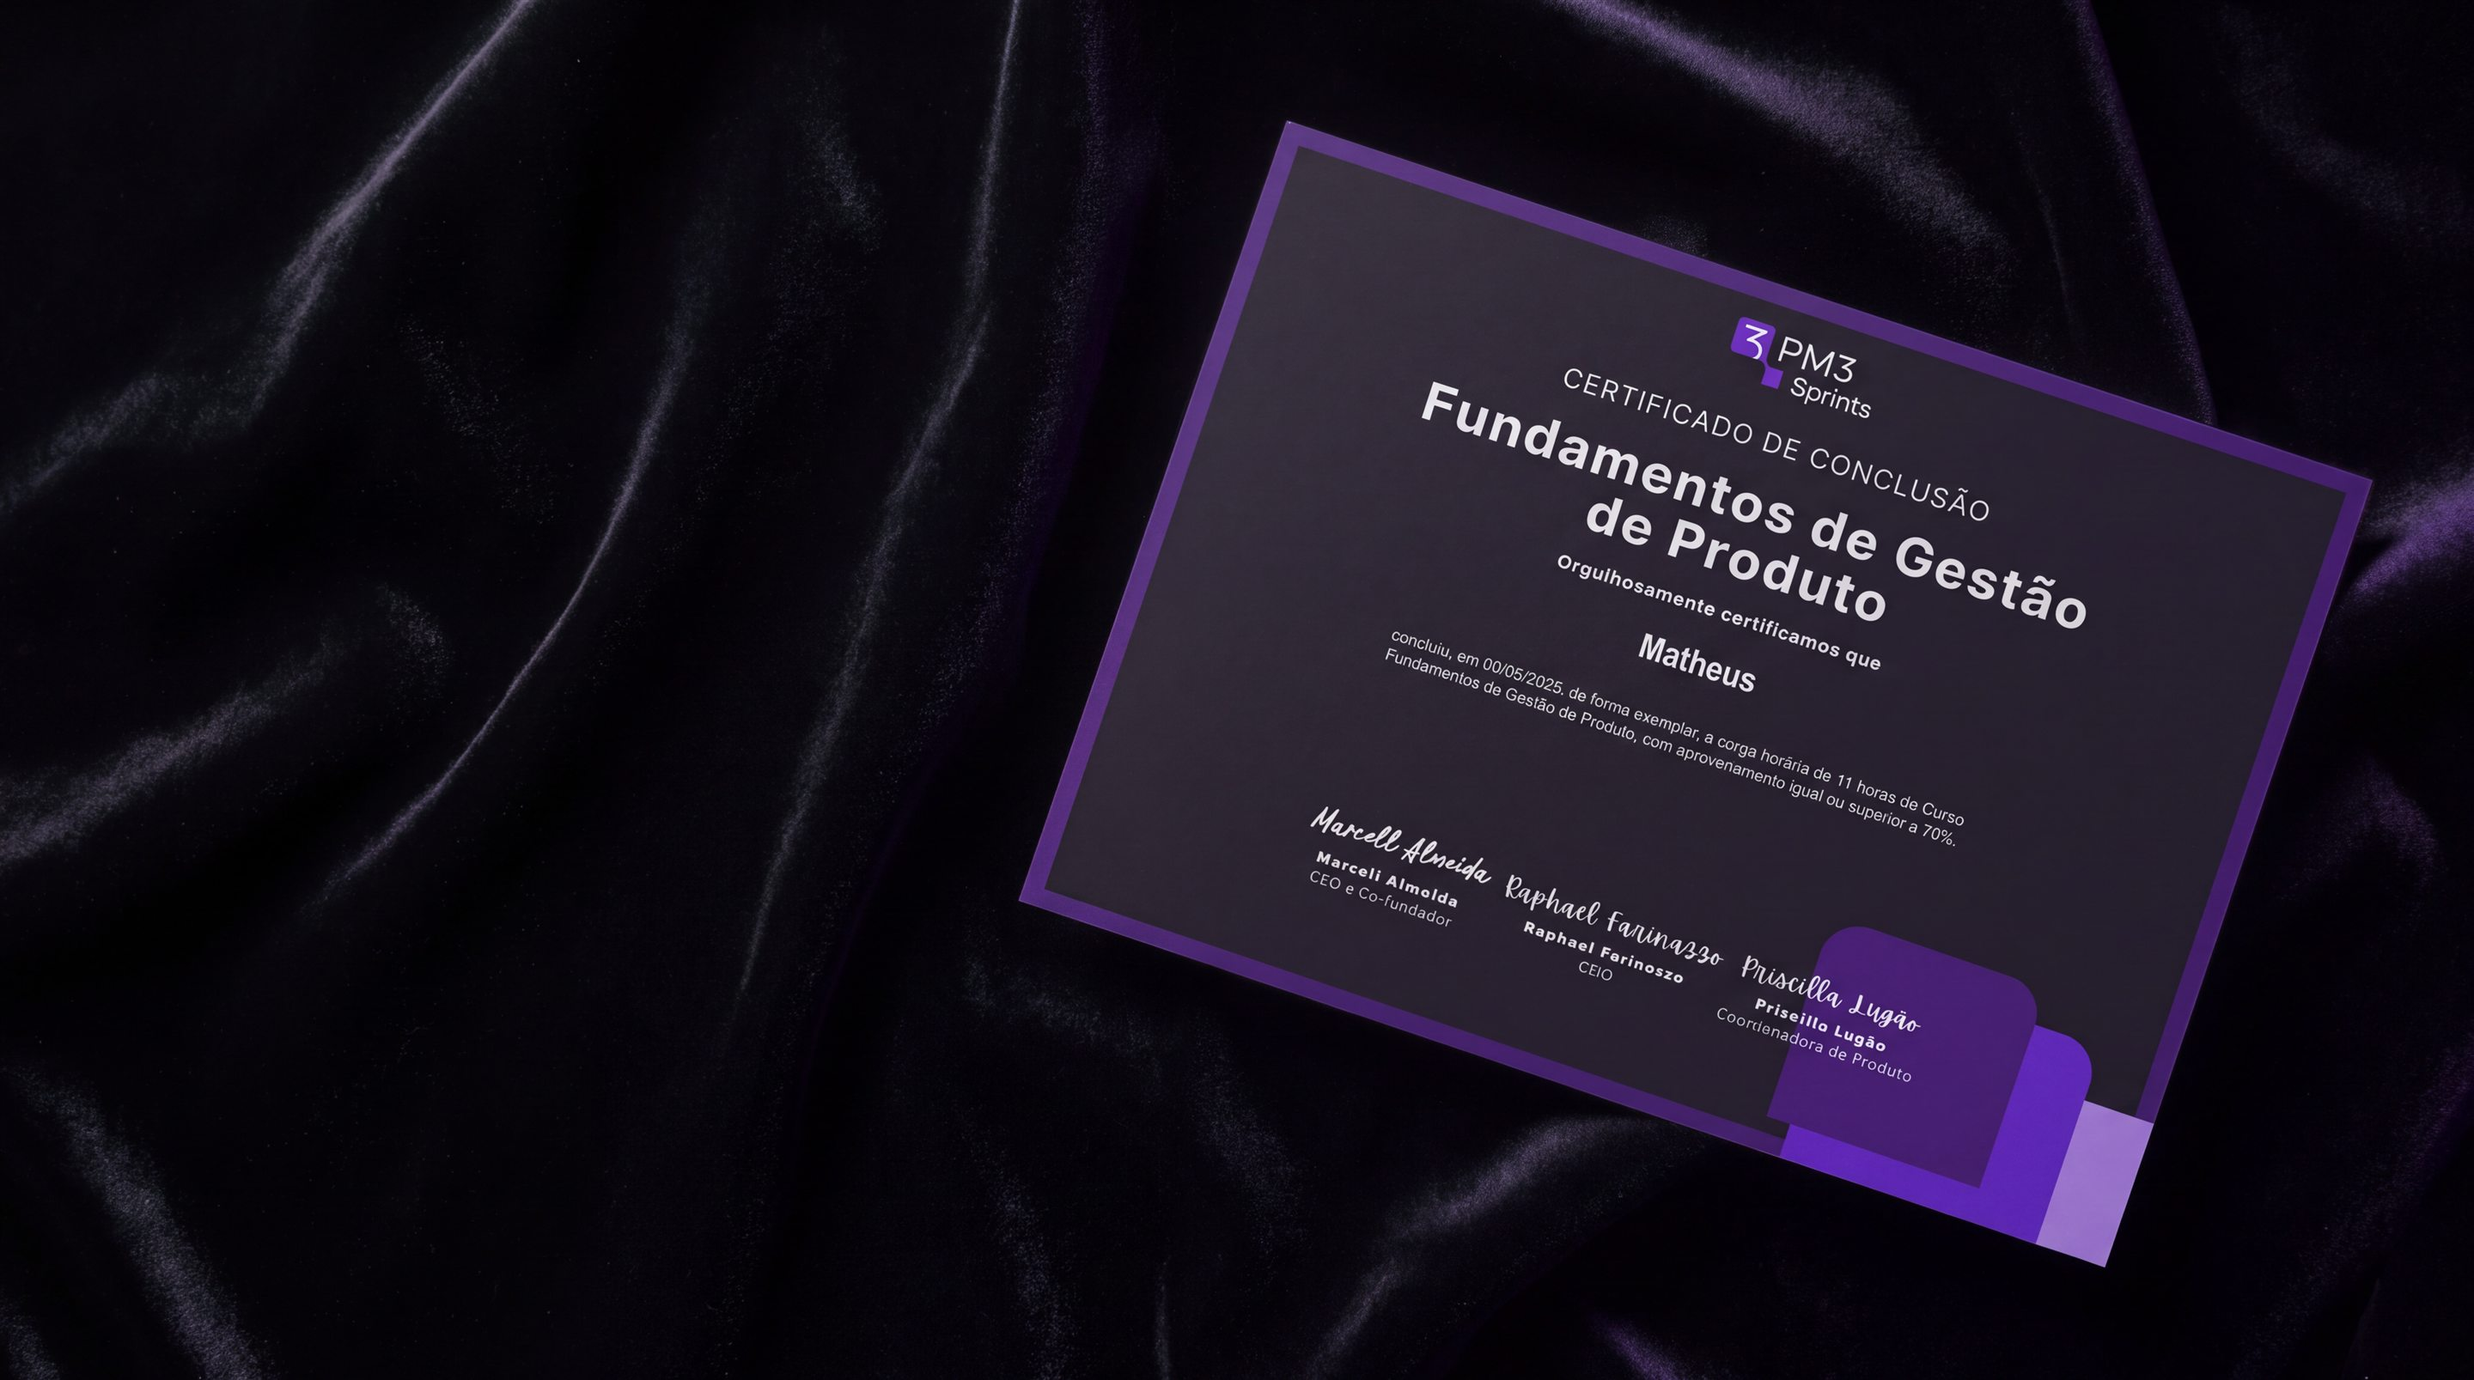
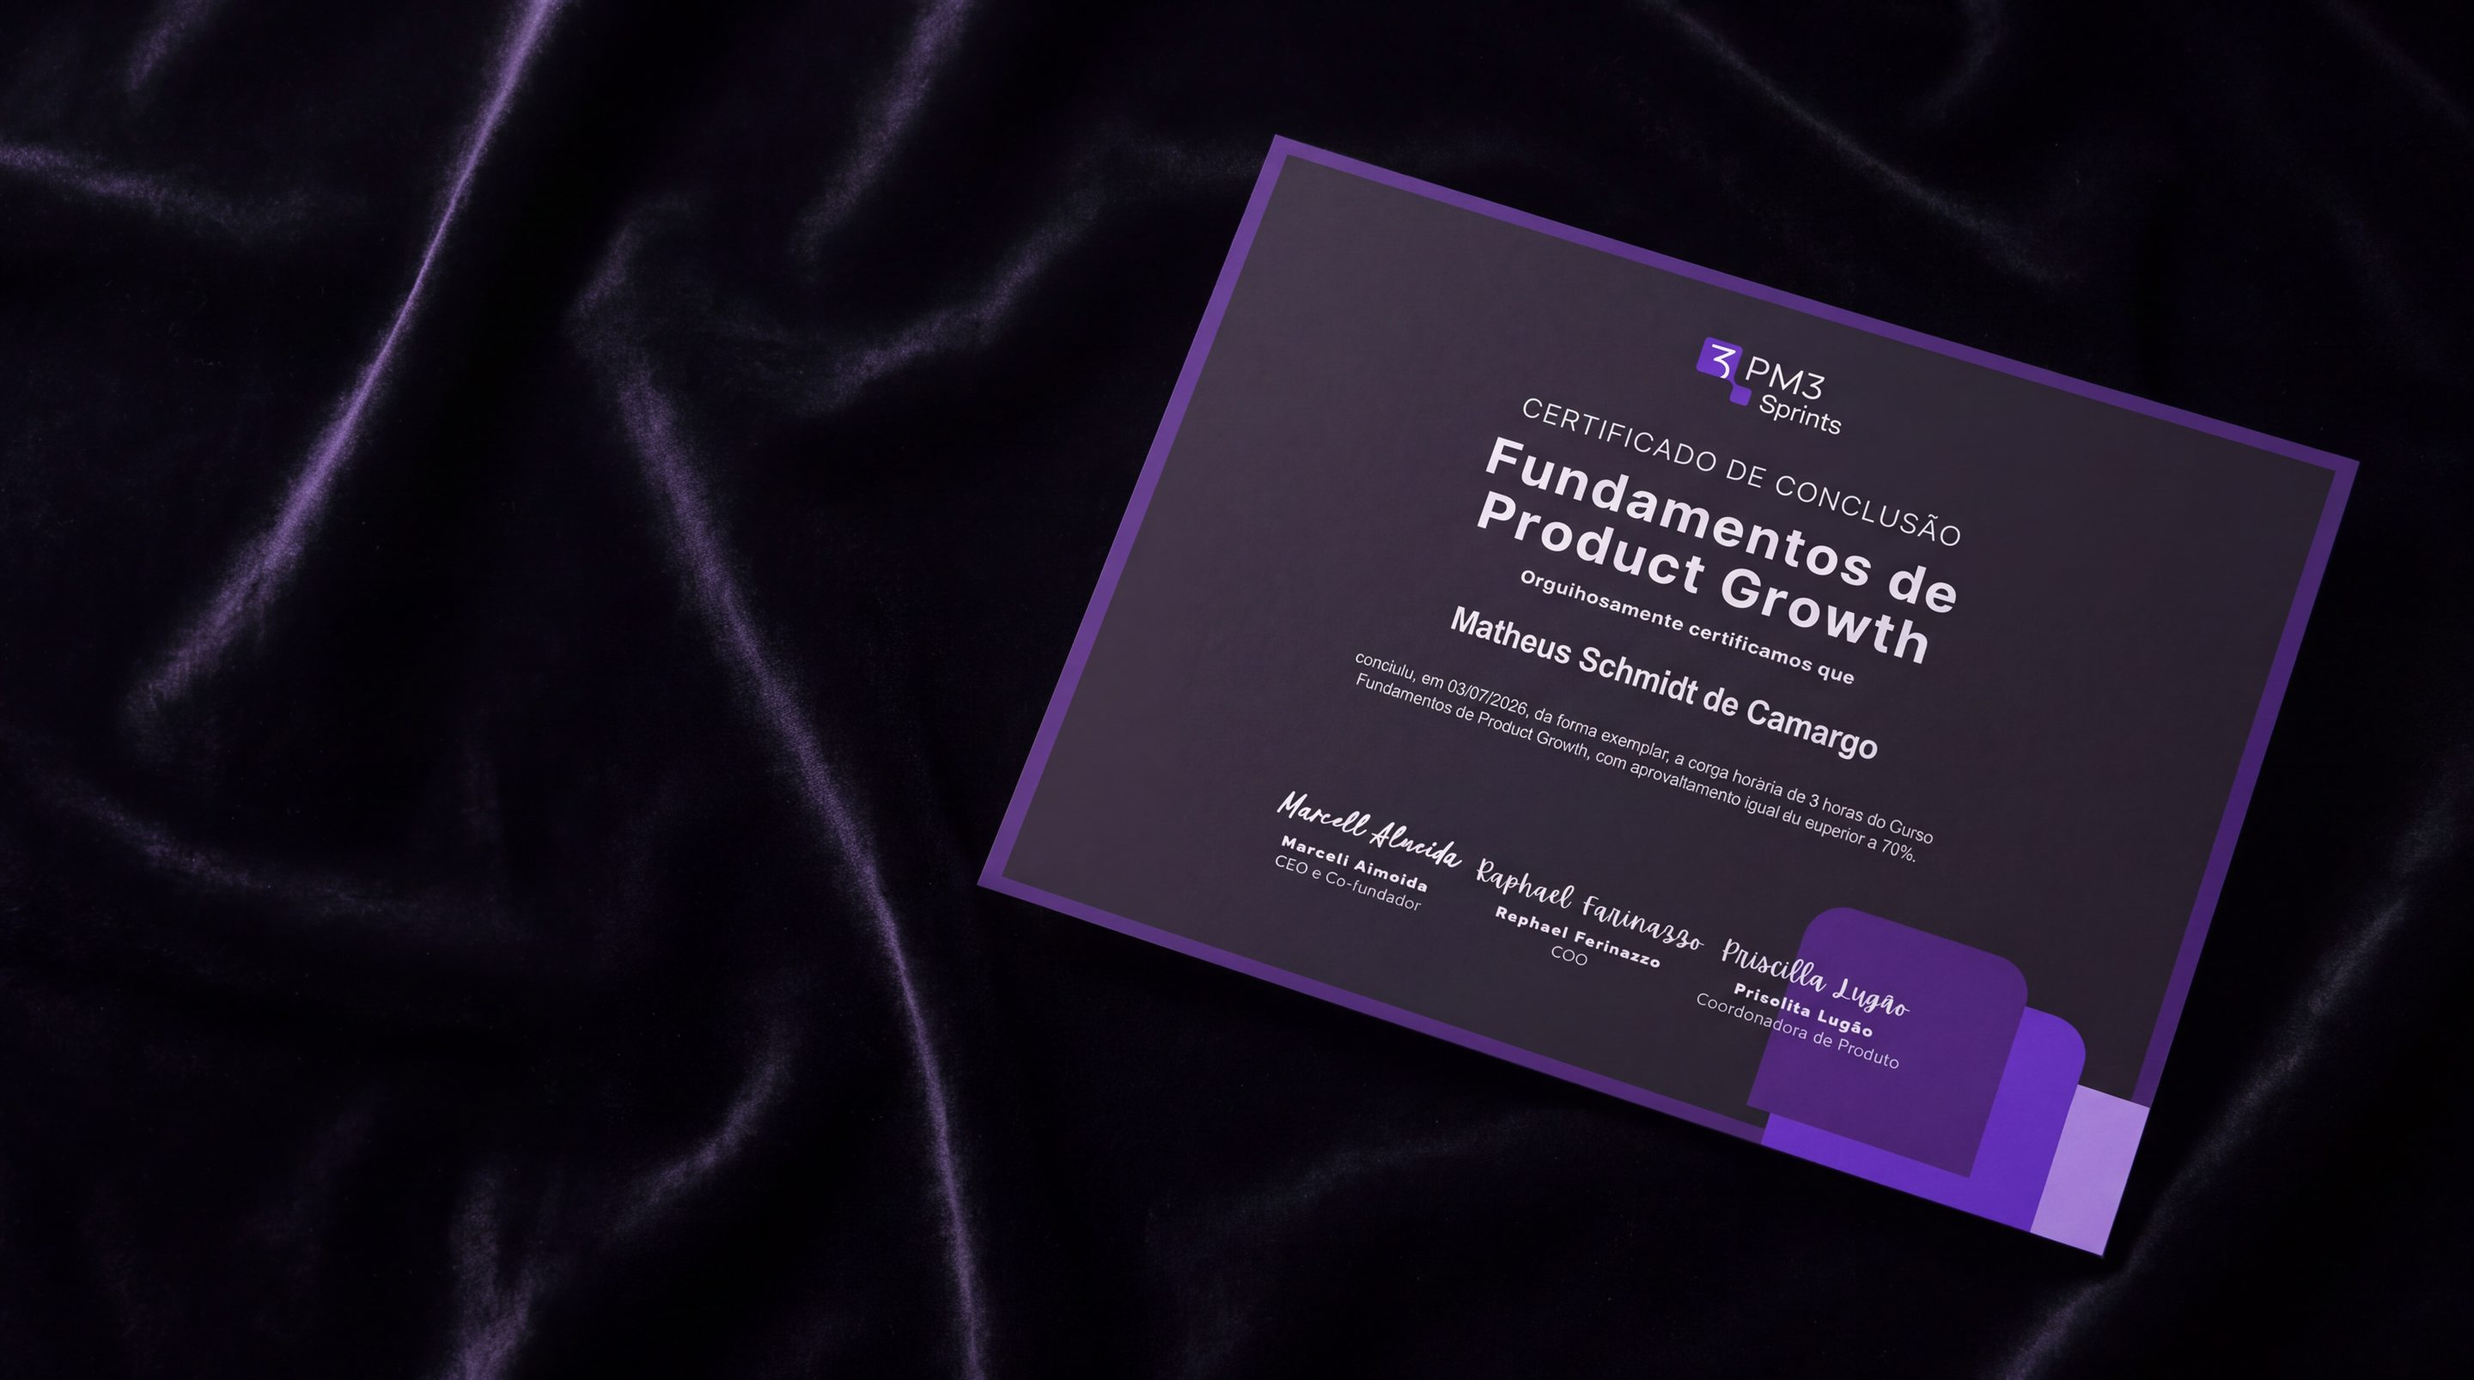
Sprints: catalogo em cards com 44 capas (Magnific), certificado de Growth; mockups nunca invadem o texto

diff --git a/assets/js/vitrines.js b/assets/js/vitrines.js
@@ -43,25 +43,33 @@
 
   /* ---------- /sprints/ ---------- */
   if (PAGE === 'sprints'){
+    /* catálogo: um card por sprint (mesmo card de Formações), filtrável por vertical */
     const ordem = ['gestao','dados','design','marketing','negocios','lideranca'];
-    const intro = {
-      gestao: 'Roadmap, PRD, pesquisa e operações de produto.', dados: 'SQL, Python, BI, métricas e experimentos.',
-      design: 'Design thinking, serviço e interface.', marketing: 'Growth, go-to-market e aquisição.',
-      negocios: 'OKRs, ágil e processos.', lideranca: 'Comunicação, feedback, negociação e gestão de pessoas.'
+    const nomeA = a => a === 'lideranca' ? 'Liderança' : AREAS[a].curto;
+    const CAPAS = ['fundamentos-gestao-produtos','roadmap-priorizacao','tecnicas-pesquisa','tecnologia-pms','prd','product-ops-fundamentos','product-ops-avancado','metodos-analise-dados','power-bi','excel','metricas-negocios','python','visualizacao-dashboards','teste-ab','sql','lgpd','problem-solving','vieses-analises','design-thinking','design-servico','ui-design','go-to-market','product-growth','product-marketing','aquisicao','sales-enablement','okrs','metodologias-ageis','gestao-processos','educacao-corporativa','negociacao-lideres','comunicacao-assertiva','apresentacao-slides','diversidade-inclusao','trabalho-remoto','gestao-tempo','lideranca-equipe','saude-mental','delegacao','feedback','ie-lideres','ie-trabalho','oratoria','tecnicas-negociacao'];
+    SPRINTS.forEach((s, i) => { s.capa = CAPAS[i]; });
+    const ic = {
+      h: '<svg viewBox="0 0 16 16" fill="none" stroke="currentColor" stroke-width="1.6" aria-hidden="true"><circle cx="8" cy="8" r="6.2"/><path d="M8 4.6V8l2.4 1.6"/></svg>',
+      cert: '<svg viewBox="0 0 16 16" fill="none" stroke="currentColor" stroke-width="1.6" aria-hidden="true"><circle cx="8" cy="6.2" r="4.2"/><path d="m5.6 9.6-1.1 4.8L8 12.8l3.5 1.6-1.1-4.8"/></svg>',
+      go: '<svg viewBox="0 0 16 16" fill="none" stroke="currentColor" stroke-width="2"><path d="M2 8h11M9 4l4 4-4 4"/></svg>'
     };
-    const grupos = ordem.map(a => ({ a, ss: SPRINTS.filter(s => s.area === a) }));
-    $('#vnav').innerHTML = grupos.map(g => `<a href="#${g.a}">${AREAS[g.a].nome}<small>${g.ss.length}</small></a>`).join('');
-    $('#verts').innerHTML = grupos.map(g => {
-      const tot = g.ss.reduce((t, s) => t + s.h, 0);
-      return `<section class="vert" id="${g.a}" aria-labelledby="t-${g.a}">
-        <div class="vert-head"><span class="n">${String(g.ss.length).padStart(2,'0')}</span><div><h2 id="t-${g.a}">${AREAS[g.a].nome}</h2><p>${intro[g.a]}</p></div><div class="tot"><b>${tot}h</b>de conteúdo na vertical</div></div>
-        <div class="slist">${g.ss.map(s => `<a class="srow${s.url !== '#' ? ' hot' : ''}" href="${s.url}"><b>${s.nome}</b><span>${s.obj}</span><em class="hh" style="font-style:normal">${s.h}h</em></a>`).join('')}</div>
-      </section>`;
-    }).join('');
-    const links = [...document.querySelectorAll('#vnav a')], secs = links.map(l => $(l.getAttribute('href')));
-    const marca = () => { let cur = null; secs.forEach(s => { if (s.getBoundingClientRect().top < 200) cur = s.id; });
-      links.forEach(l => l.classList.toggle('on', l.getAttribute('href') === '#' + cur)); };
-    addEventListener('scroll', marca, { passive: true }); marca();
+    const lista = ordem.flatMap(a => SPRINTS.filter(s => s.area === a));
+    $('#fx-chips').innerHTML = `<button type="button" class="on" data-f="">Todas <small>${lista.length}</small></button>` +
+      ordem.map(a => `<button type="button" data-f="${a}">${nomeA(a)} <small>${SPRINTS.filter(s => s.area === a).length}</small></button>`).join('');
+    $('#fx-grid').innerHTML = lista.map((s, i) => `<a class="f-card reveal${s.url !== '#' ? ' feature' : ''}" data-a="${s.area}" data-d="${i % 4}" href="${s.url}">
+      <div class="f-vis" style="background-image:url('assets/capas/sprints/${s.capa}.jpg')" aria-hidden="true"></div>
+      <div class="f-body"><div class="top"><span class="tag tag-area">${nomeA(s.area)}</span>${s.url !== '#' ? '<span class="tag tag-yellow">Comece aqui</span>' : ''}</div>
+        <h3>${s.nome}</h3><p>${s.obj}</p>
+        <ul class="f-facts"><li>${ic.h}${s.h}h</li><li>${ic.cert}Certificado</li></ul>
+        <div class="meta"><span>Ver sprint</span><span class="go">${ic.go}</span></div></div></a>`).join('') +
+      `<a class="f-more f-more-full reveal" href="membership.html"><div><small>Membership PM3</small><h3>Todas as sprints<span class="em">e as 10 formações.</span></h3>
+        <p>12 meses de acesso às +40 sprints, às 10 formações, mentorias, workshops ao vivo e comunidade.</p></div>
+        <div class="row"><div class="pr"><b>12x R$ 299,91</b><span>ou R$ 3.599 à vista</span></div><span class="btn btn-light">Conhecer a Membership ${ic.go}</span></div></a>`;
+    const filtra = a => {
+      document.querySelectorAll('#fx-chips button').forEach(b => b.classList.toggle('on', b.dataset.f === a));
+      document.querySelectorAll('#fx-grid .f-card').forEach(c => c.hidden = !!a && c.dataset.a !== a);
+    };
+    $('#fx-chips').addEventListener('click', e => { const b = e.target.closest('button'); if (b) filtra(b.dataset.f); });
   }
 
   /* ---------- /cursos/ ---------- */

diff --git a/sprints.html b/sprints.html
@@ -17,8 +17,9 @@
 <link rel="stylesheet" href="assets/css/tokens.css?v=2">
 <link rel="stylesheet" href="assets/css/base.css?v=20">
 <link rel="stylesheet" href="assets/css/components.css?v=5">
-<link rel="stylesheet" href="assets/css/showcase.css?v=27">
+<link rel="stylesheet" href="assets/css/showcase.css?v=30">
 <link rel="stylesheet" href="assets/css/hero-card.css?v=1">
+<link rel="stylesheet" href="assets/css/cards-formacao.css?v=6">
 <script type="application/ld+json">
 {"@context":"https://schema.org","@graph":[
  {"@type":"BreadcrumbList","itemListElement":[
@@ -45,7 +46,7 @@
       <div>
         <div class="m-buy">
           <div class="btns">
-            <a class="btn btn-light" href="#vnav">Ver as sprints <svg viewBox="0 0 16 16" fill="none" stroke="currentColor" stroke-width="1.8"><path d="M2 8h11M9 4l4 4-4 4"/></svg></a>
+            <a class="btn btn-light" href="#catalogo">Ver as sprints <svg viewBox="0 0 16 16" fill="none" stroke="currentColor" stroke-width="1.8"><path d="M2 8h11M9 4l4 4-4 4"/></svg></a>
             <a class="btn btn-line" href="membership.html">Conhecer a Membership</a>
           </div>
         </div>
@@ -65,23 +66,19 @@
   </div>
 </section>
 
-<!-- 2 · NAVEGAÇÃO POR VERTICAL -->
-<nav class="vnav" aria-label="Verticais de sprints" data-nota="As 6 verticais viram âncoras desta página. Hoje cada vertical é uma URL própria (/sprints/dados/ etc.): manter essas URLs como seções ou páginas filhas, com 301 se mudarem."><div class="wrap" id="vnav"></div></nav>
-
-<!-- 3 · VERTICAIS -->
-<div class="wrap" id="verts" data-nota="44 sprints do catálogo consolidado (jul/2026). O marketing diz '+40' e o sitemap tem 48 páginas: alinhar a lista oficial antes da migração."></div>
-
-<!-- 4 · ACESSO -->
-<section class="section" aria-label="Como acessar as sprints">
+<!-- 2 · CATÁLOGO -->
+<section class="section" id="catalogo" aria-labelledby="ar-t">
   <div class="wrap">
-    <div class="mband grain on-dark reveal" data-nota="Mesma decisão da página da sprint: a assinatura só de sprints continua? Sem preço público hoje.">
-      <div><p class="kicker">Todas as sprints inclusas</p><h2>Sprints e formações.<span class="em">No mesmo acesso.</span></h2><p>A Membership é uma assinatura de 12 meses com as +40 sprints, as 10 formações, mentorias, workshops ao vivo e comunidade.</p></div>
-      <div class="pr"><small>Membership PM3</small><b>12x R$ 299,91</b><span>ou R$ 3.599 à vista</span><a class="btn btn-light" href="membership.html">Conhecer a Membership</a></div>
+    <div class="sec-head">
+      <div><p class="kicker"><span class="n">01</span> Catálogo</p><h2 class="h2" id="ar-t">Escolha a<br><span class="c2">sua sprint</span></h2></div>
+      <p class="lead">44 cursos curtos, de 2 a 12 horas, cada um focado em um desafio do dia a dia. Faça uma ou tenha todas na Membership.</p>
     </div>
+    <div class="fx-chips" id="fx-chips" role="group" aria-label="Filtrar por vertical"></div>
+    <div class="f-grid" id="fx-grid" data-nota="44 sprints do catálogo consolidado (jul/2026), com capas geradas no Magnific (pessoas fictícias). O marketing diz '+40' e o sitemap tem 48 páginas: alinhar a lista oficial antes da migração."></div>
   </div>
 </section>
 
-<!-- 5 · CERTIFICADO -->
+<!-- 3 · CERTIFICADO -->
 <section class="cx-sec on-dark" aria-labelledby="ce-t">
   <div class="cx-hero cx-sprint" data-nota="Mockup gerado no Magnific a partir do certificado real das Sprints (QR code e código de validação removidos).">
     <div class="wrap">
@@ -109,21 +106,11 @@
     </div>
   </div>
 </section>
-<!-- 6 · CTA FINAL -->
-<section class="final grain on-dark" aria-labelledby="fn-t">
-  <div class="aurora" aria-hidden="true"><i></i><i></i><i></i></div>
-  <div class="wrap">
-    <p class="kicker" style="justify-content:center">Por onde começar</p>
-    <h2 class="display" id="fn-t">Comece pelos<br>fundamentos.</h2>
-    <p>12 horas para entender como produtos digitais são feitos, do problema ao roadmap.</p>
-    <div class="btns"><a class="btn btn-light" href="sprint-fundamentos-gestao-produtos.html">Sprint Fundamentos</a><a class="btn btn-line" href="cursos.html">Catálogo completo</a></div>
-  </div>
-</section>
 
 </main>
 
 <script src="assets/js/catalogo.js?v=T3"></script>
-<script src="assets/js/vitrines.js?v=T9"></script>
+<script src="assets/js/vitrines.js?v=T10"></script>
 <script src="assets/js/layout.js?v=23"></script>
 <script src="assets/js/hero-card.js?v=1"></script>
 </body>

diff --git a/assets/css/showcase.css b/assets/css/showcase.css
@@ -274,4 +274,9 @@
 .cx-levels i{display:inline-flex;align-self:flex-start;font-style:normal;font-family:var(--display);font-weight:700;font-size:11px;letter-spacing:.14em;text-transform:uppercase;color:#fff;background:rgba(255,255,255,.1);border:1px solid rgba(255,255,255,.18);border-radius:var(--r-pill);padding:5px 11px;margin-bottom:16px}
 .cx-levels div{display:flex;flex-direction:column;padding-top:24px}
 @media (max-width:1080px){ .cx-levels{grid-template-columns:1fr} .cx-levels div + div{padding-left:0;border-left:0} }
-.cx-hero.cx-sprint::before{background-image:url('../img/certificado-sprint-veludo.jpg');right:4%}
+.cx-hero.cx-sprint::before{background-image:url('../img/certificado-sprint-veludo.jpg?v=2')}
+/* o mockup (recortado no certificado) fica sempre à direita da coluna de texto: nunca passa por baixo dele */
+@media (min-width:861px){
+  .cx-hero::before{top:4%;bottom:4%;right:0;left:max(48%,calc(max(var(--gutter),(100% - var(--wrap)) / 2) + 640px));aspect-ratio:auto;background-image:url('../img/certificado-veludo-crop.jpg?v=2');background-size:contain;background-position:right center;-webkit-mask-image:none;mask-image:none}
+  .cx-hero.cx-sprint::before{background-image:url('../img/certificado-sprint-veludo-crop.jpg?v=2')}
+}

diff --git a/formacoes.html b/formacoes.html
@@ -17,9 +17,9 @@
 <link rel="stylesheet" href="assets/css/tokens.css?v=2">
 <link rel="stylesheet" href="assets/css/base.css?v=20">
 <link rel="stylesheet" href="assets/css/components.css?v=5">
-<link rel="stylesheet" href="assets/css/showcase.css?v=27">
+<link rel="stylesheet" href="assets/css/showcase.css?v=30">
 <link rel="stylesheet" href="assets/css/hero-card.css?v=1">
-<link rel="stylesheet" href="assets/css/cards-formacao.css?v=5">
+<link rel="stylesheet" href="assets/css/cards-formacao.css?v=6">
 <script type="application/ld+json">
 {"@context":"https://schema.org","@graph":[
  {"@type":"BreadcrumbList","itemListElement":[
@@ -113,7 +113,7 @@
 </main>
 
 <script src="assets/js/catalogo.js?v=T3"></script>
-<script src="assets/js/vitrines.js?v=T9"></script>
+<script src="assets/js/vitrines.js?v=T10"></script>
 <script src="assets/js/layout.js?v=23"></script>
 <script src="assets/js/hero-card.js?v=1"></script>
 </body>

diff --git a/cursos.html b/cursos.html
@@ -17,7 +17,7 @@
 <link rel="stylesheet" href="assets/css/tokens.css?v=2">
 <link rel="stylesheet" href="assets/css/base.css?v=20">
 <link rel="stylesheet" href="assets/css/components.css?v=5">
-<link rel="stylesheet" href="assets/css/showcase.css?v=27">
+<link rel="stylesheet" href="assets/css/showcase.css?v=30">
 <script type="application/ld+json">
 {"@context":"https://schema.org","@graph":[
  {"@type":"BreadcrumbList","itemListElement":[
@@ -82,7 +82,7 @@
 </main>
 
 <script src="assets/js/catalogo.js?v=T3"></script>
-<script src="assets/js/vitrines.js?v=T9"></script>
+<script src="assets/js/vitrines.js?v=T10"></script>
 <script src="assets/js/layout.js?v=23"></script>
 </body>
 </html>

diff --git a/membership.html b/membership.html
@@ -18,7 +18,7 @@
 <link rel="stylesheet" href="assets/css/base.css?v=20">
 <link rel="stylesheet" href="assets/css/components.css?v=5">
 <link rel="stylesheet" href="assets/css/hero-card.css?v=1">
-<link rel="stylesheet" href="assets/css/cards-formacao.css?v=5">
+<link rel="stylesheet" href="assets/css/cards-formacao.css?v=6">
 <link rel="stylesheet" href="assets/css/membership.css?v=25">
 <script type="application/ld+json">
 {"@context":"https://schema.org","@graph":[

diff --git a/assets/css/cards-formacao.css b/assets/css/cards-formacao.css
@@ -50,3 +50,6 @@
 .f-grid .f-facts li{font-size:12px;padding:4px 8px;gap:5px}
 .f-grid .f-card .tag{font-size:10.5px;padding:4px 9px;white-space:nowrap}
 .f-grid .f-facts .fc-cert{display:none}
+.f-more.f-more-full{grid-column:1/-1;flex-direction:row;align-items:flex-end}
+.f-more.f-more-full > div:first-child{flex:1}
+@media (max-width:860px){ .f-more.f-more-full{flex-direction:column;align-items:stretch} }
